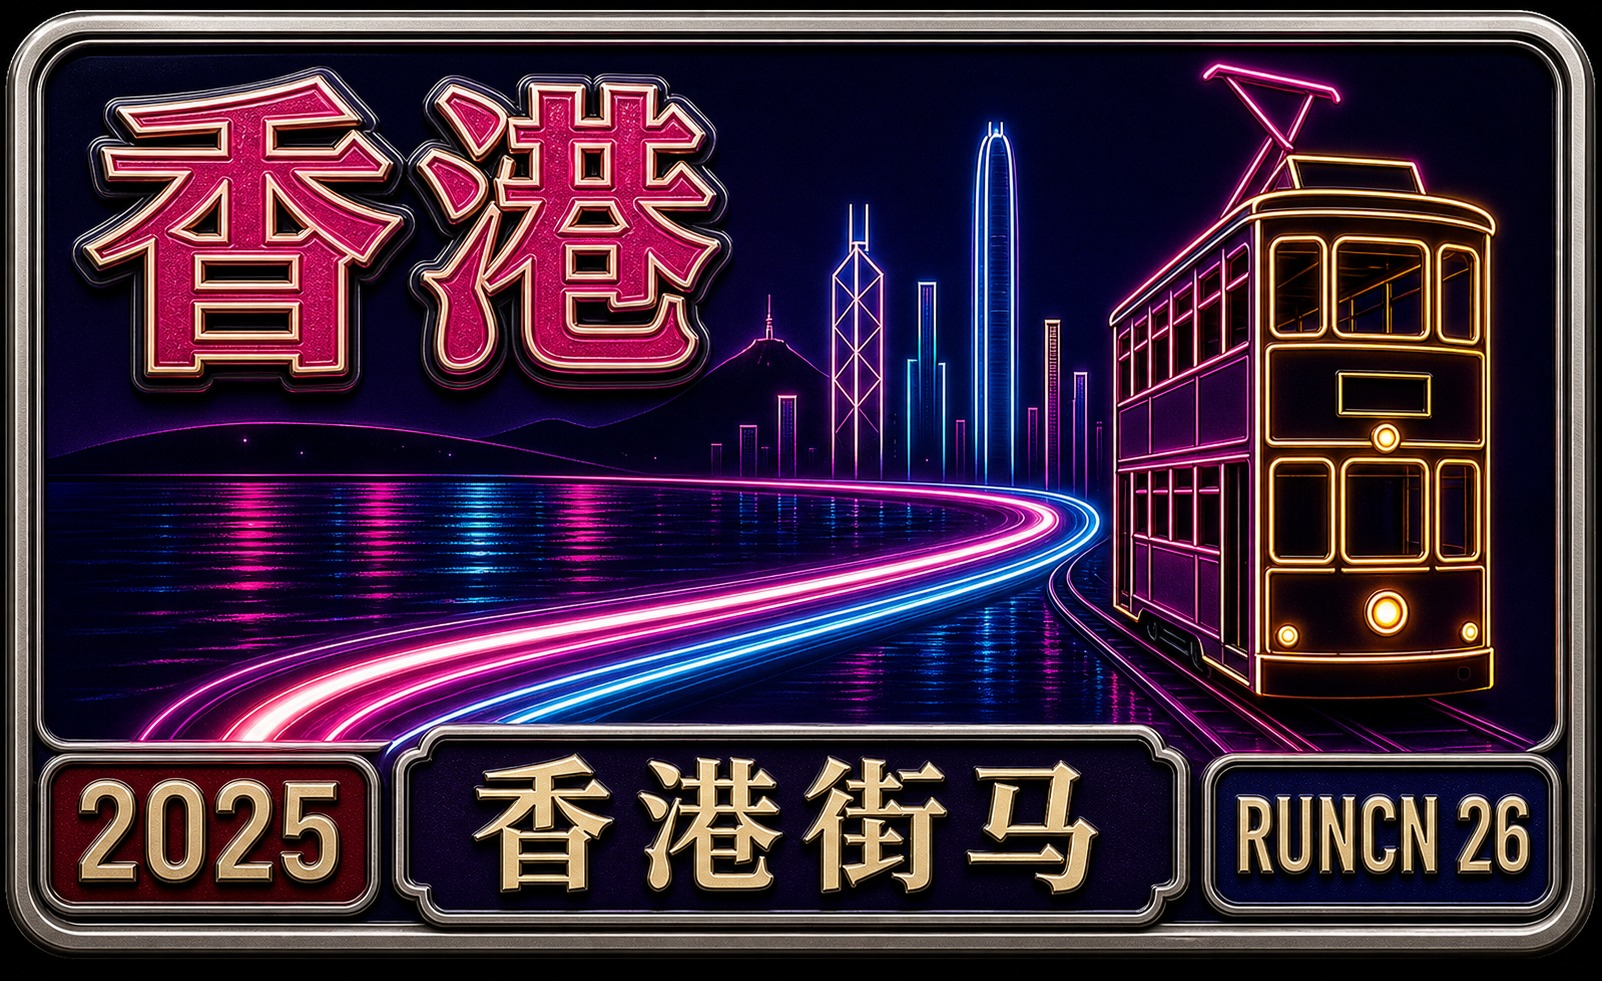
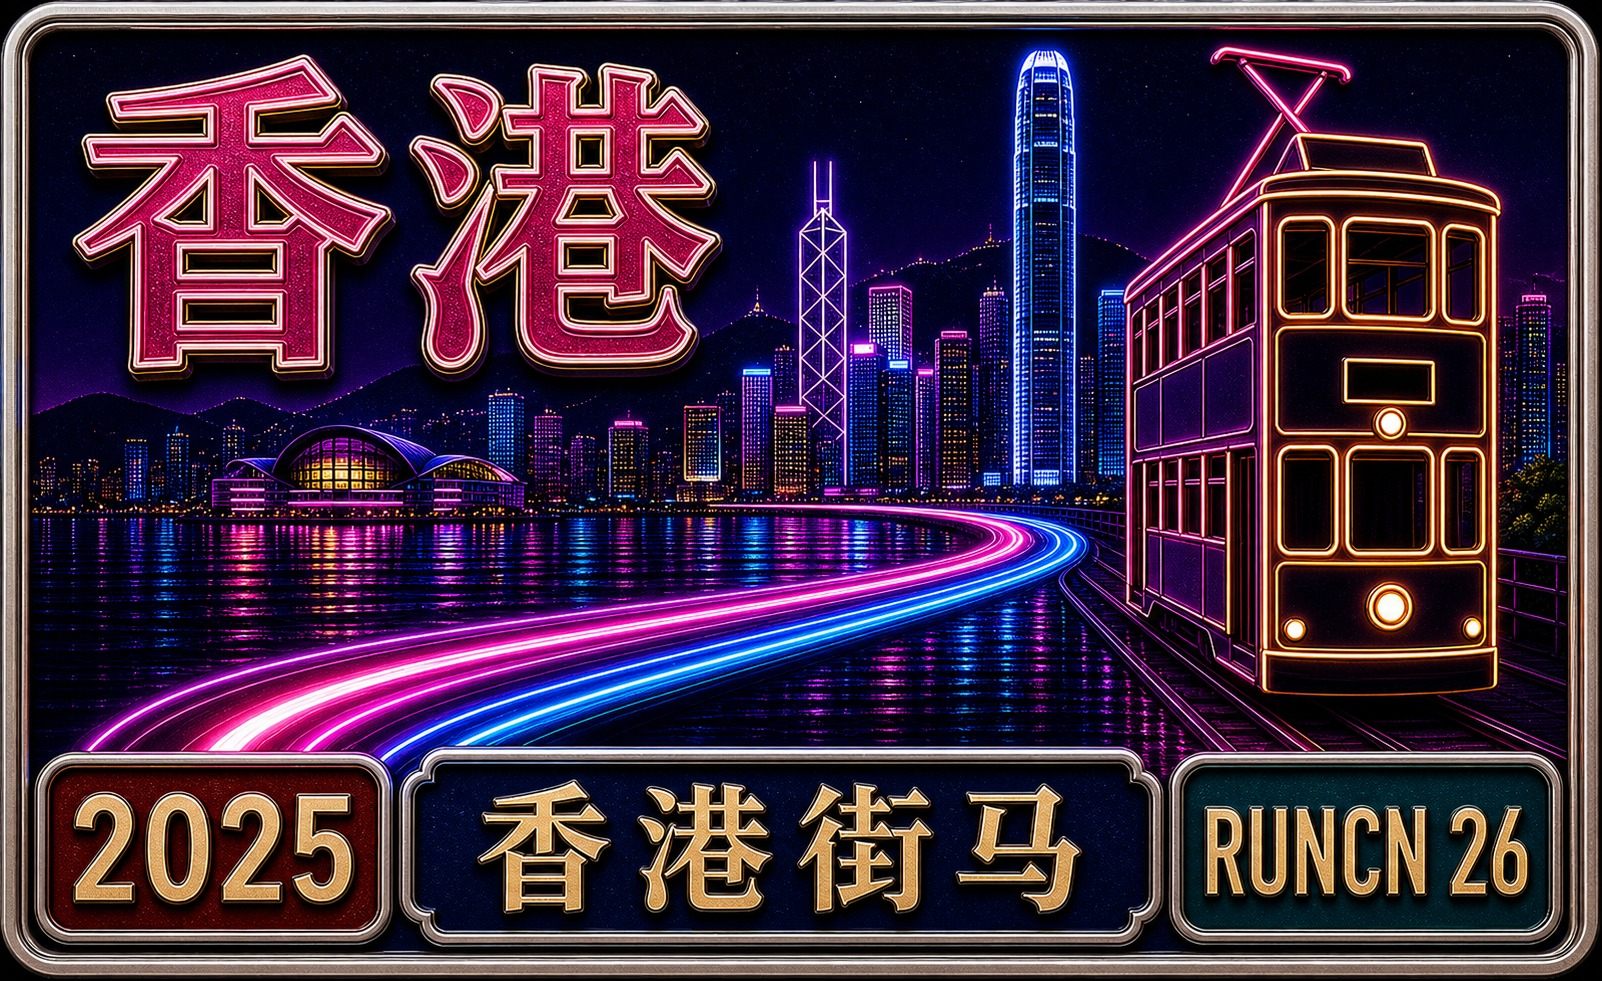
Fix RunCN cover visual ratios

diff --git a/run50/stories/chinese/shanghai-vertical-marathon.html b/run50/stories/chinese/shanghai-vertical-marathon.html
@@ -11,9 +11,9 @@
   <meta property="og:type" content="article">
   <meta property="og:url" content="https://arsenanzz.github.io/ZZ/run50/stories/chinese/shanghai-vertical-marathon.html">
   <meta property="og:site_name" content="ArsenanZZ">
-  <meta property="og:image" content="https://zhennanzhang.com/assets/cover-medal-shanghai-vertical-marathon.jpg?v=20260628-runcn-shanghai-vertical-v1">
+  <meta property="og:image" content="https://zhennanzhang.com/assets/cover-medal-shanghai-vertical-marathon.jpg?v=20260628-runcn-shanghai-ratio-v2">
   <meta name="twitter:card" content="summary_large_image">
-  <meta name="twitter:image" content="https://zhennanzhang.com/assets/cover-medal-shanghai-vertical-marathon.jpg?v=20260628-runcn-shanghai-vertical-v1">
+  <meta name="twitter:image" content="https://zhennanzhang.com/assets/cover-medal-shanghai-vertical-marathon.jpg?v=20260628-runcn-shanghai-ratio-v2">
   <link rel="stylesheet" href="../../../assets/zz-engagement.css?v=20260617">
   <style>
     :root {
@@ -102,7 +102,7 @@
     <h1>RunCN #第22站｜上海中心垂直马拉松</h1>
     <div class="meta"><span>Arsenan</span><span>2019.11.24</span><span>RunCN #第22站</span></div>
     <p class="dek">在签证等待的特殊时期，爬上119层、3398级台阶，在632米高处俯瞰浦江两岸。</p>
-    <img class="cover" src="../../../assets/cover-medal-shanghai-vertical-marathon.jpg?v=20260628-runcn-shanghai-vertical-v1" alt="RunCN #第22站｜上海中心垂直马拉松" loading="eager" decoding="async">
+    <img class="cover" src="../../../assets/cover-medal-shanghai-vertical-marathon.jpg?v=20260628-runcn-shanghai-ratio-v2" alt="RunCN #第22站｜上海中心垂直马拉松" loading="eager" decoding="async">
   </header>
   <main class="article-shell"><article class="article-body">
 

diff --git a/run50/stories/chinese/hong-kong-marathon.html b/run50/stories/chinese/hong-kong-marathon.html
@@ -13,8 +13,8 @@
   <meta property="og:site_name" content="ArsenanZZ">
   <meta property="og:locale" content="zh_CN">
   <meta property="og:locale:alternate" content="en_US">
-  <meta property="og:image" content="https://zhennanzhang.com/assets/cover-medal-hk.jpg?v=20260628-runcn-hk-neon-v1">
-  <meta property="og:image:secure_url" content="https://zhennanzhang.com/assets/cover-medal-hk.jpg?v=20260628-runcn-hk-neon-v1">
+  <meta property="og:image" content="https://zhennanzhang.com/assets/cover-medal-hk.jpg?v=20260628-runcn-hk-ratio-v2">
+  <meta property="og:image:secure_url" content="https://zhennanzhang.com/assets/cover-medal-hk.jpg?v=20260628-runcn-hk-ratio-v2">
   <meta property="og:image:type" content="image/jpeg">
   <meta property="og:image:width" content="1200">
   <meta property="og:image:height" content="750">
@@ -23,7 +23,7 @@
   <meta name="twitter:card" content="summary_large_image">
   <meta name="twitter:title" content="RunCN #第26站｜香港嘉里街道马拉松">
   <meta name="twitter:description" content="这是我跑中国的第三站，香港嘉里街道马拉松。凌晨五点从东岸公园出发，穿过中环湾仔绕道、东隧、将军澳跨湾大桥和中九龙干线隧道，在高架、海风和城市街区里完成这趟收尾跑。">
-  <meta name="twitter:image" content="https://zhennanzhang.com/assets/cover-medal-hk.jpg?v=20260628-runcn-hk-neon-v1">
+  <meta name="twitter:image" content="https://zhennanzhang.com/assets/cover-medal-hk.jpg?v=20260628-runcn-hk-ratio-v2">
   <link rel="stylesheet" href="../../../assets/zz-engagement.css">
   <style>
     :root {

diff --git a/run50/stories/chinese/index.html b/run50/stories/chinese/index.html
@@ -952,7 +952,7 @@
         </a>
 
         <a class="story-card run-cn" href="./shanghai-vertical-marathon.html">
-                <img src="../../../assets/cover-medal-shanghai-vertical-marathon.jpg?v=20260628-runcn-shanghai-vertical-v1" alt="RunCN #第22站｜上海中心垂直马拉松" loading="lazy" decoding="async">
+                <img src="../../../assets/cover-medal-shanghai-vertical-marathon.jpg?v=20260628-runcn-shanghai-ratio-v2" alt="RunCN #第22站｜上海中心垂直马拉松" loading="lazy" decoding="async">
                 <div class="story-copy">
                   <p class="story-meta">上海 · 2019.11.24</p>
                   <h2 class="story-title">RunCN #第22站｜上海中心垂直马拉松</h2>
@@ -1001,7 +1001,7 @@
               </a>
 
         <a class="story-card run-cn" href="./hong-kong-marathon.html">
-                <img src="../../../assets/cover-medal-hk.jpg?v=20260628-runcn-hk-neon-v1" alt="RunCN #第26站｜香港嘉里街道马拉松" loading="lazy" decoding="async">
+                <img src="../../../assets/cover-medal-hk.jpg?v=20260628-runcn-hk-ratio-v2" alt="RunCN #第26站｜香港嘉里街道马拉松" loading="lazy" decoding="async">
                 <div class="story-copy">
                   <p class="story-meta">中国香港 · 2025.11.23</p>
                   <h2 class="story-title">RunCN #第26站｜香港嘉里街道马拉松</h2>
